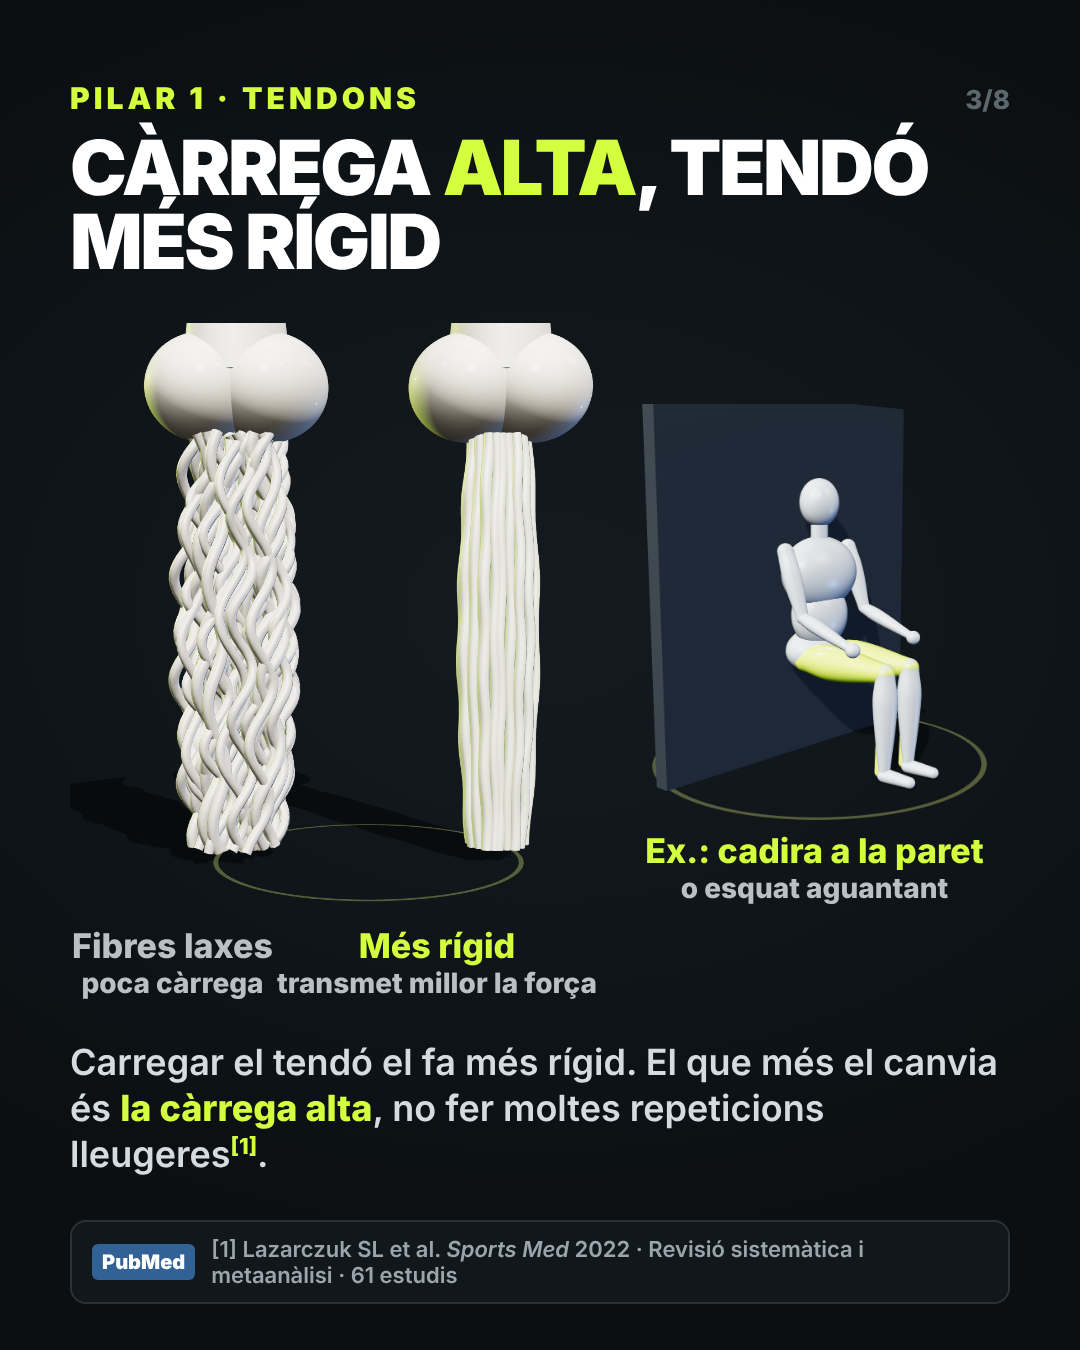
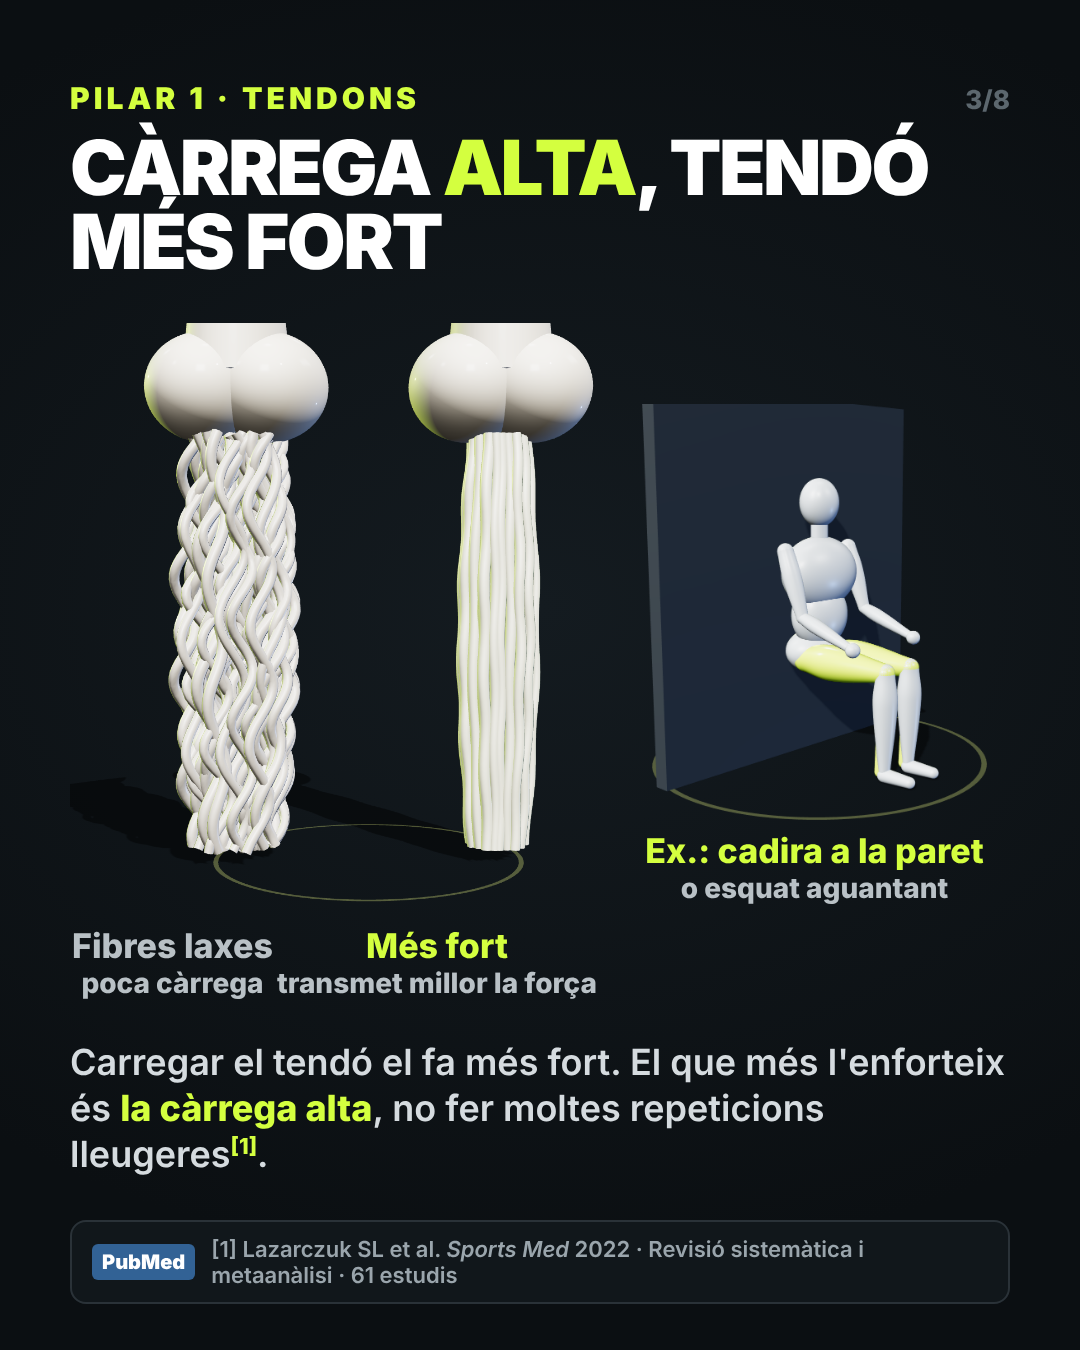
Força: tendó més fort en lloc de rígid
Claude-Session: https://claude.ai/code/session_0129rqGdsRmN9Z9aLzGCda8A

Changed region(s): [[0.5194, 0.7778, 0.9472, 0.8089], [0.2444, 0.1244, 0.4278, 0.2178], [0.3361, 0.6844, 0.4889, 0.7156]]

diff --git a/media/publicacions/forca_corredors/gen.py b/media/publicacions/forca_corredors/gen.py
@@ -37,12 +37,12 @@ S[2] = f"""<div class="s">{pg(2)}<div class="k">Abans de començar</div>
 <div style="width:300px"><img src="{U('c_salt.png')}" style="width:300px;height:560px;object-fit:contain"><div class="lab"><b>3 · Potència</b>per rebotar</div></div></div></div>"""
 
 S[3] = f"""<div class="s">{pg(3)}<div class="k">Pilar 1 · Tendons</div>
-<h2>Càrrega <em>alta</em>, tendó més rígid</h2>
+<h2>Càrrega <em>alta</em>, tendó més fort</h2>
 <div style="display:flex;gap:20px;margin-top:26px;height:700px">
 <div style="flex:1.15;position:relative"><img src="{U('c_tendo.png')}" style="width:100%;height:620px;object-fit:contain">
-<div style="display:flex;justify-content:space-around"><div class="lab"><b style="color:#B9C1C6">Fibres laxes</b>poca càrrega</div><div class="lab"><b>Més rígid</b>transmet millor la força</div></div></div>
+<div style="display:flex;justify-content:space-around"><div class="lab"><b style="color:#B9C1C6">Fibres laxes</b>poca càrrega</div><div class="lab"><b>Més fort</b>transmet millor la força</div></div></div>
 <div style="flex:.85;display:flex;flex-direction:column;justify-content:center"><img src="{U('c_paret.png')}" style="width:100%;height:420px;object-fit:contain"><div class="lab" style="margin-top:6px"><b>Ex.: cadira a la paret</b>o esquat aguantant</div></div></div>
-<p style="margin-top:34px">Carregar el tendó el fa més rígid. El que més el canvia és <b>la càrrega alta</b>, no fer moltes repeticions lleugeres{ref(1)}.</p>
+<p style="margin-top:34px">Carregar el tendó el fa més fort. El que més l'enforteix és <b>la càrrega alta</b>, no fer moltes repeticions lleugeres{ref(1)}.</p>
 {card('[1] Lazarczuk SL et al. <i>Sports Med</i> 2022 · Revisió sistemàtica i metaanàlisi · 61 estudis')}</div>"""
 
 S[4] = f"""<div class="s">{pg(4)}<div class="k">Pilar 2 · Múscul</div>
